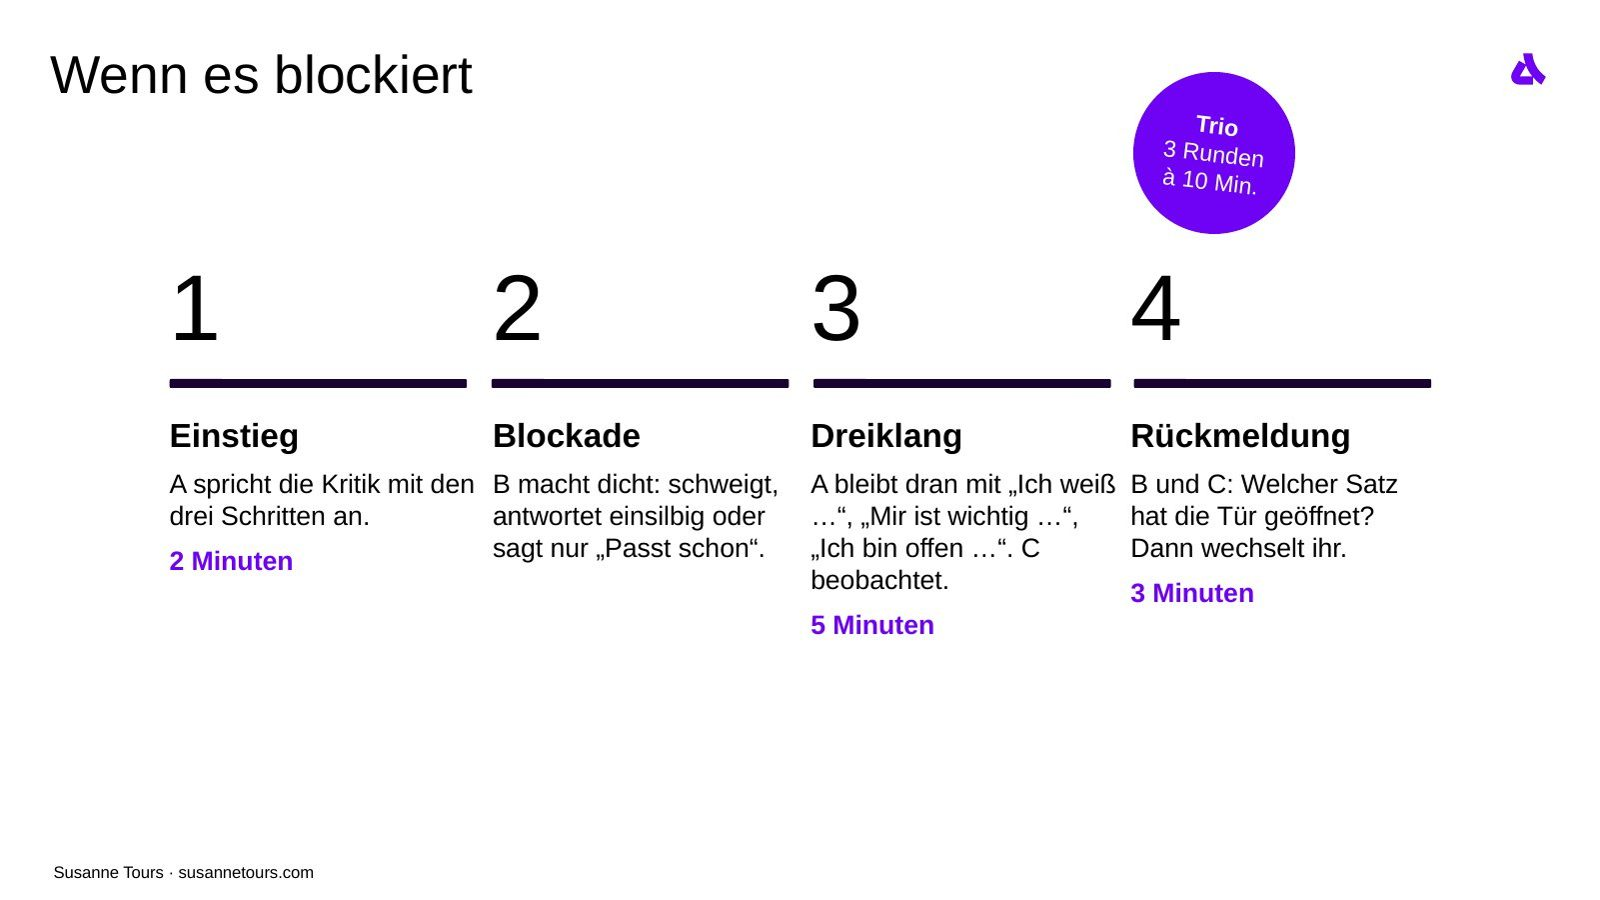
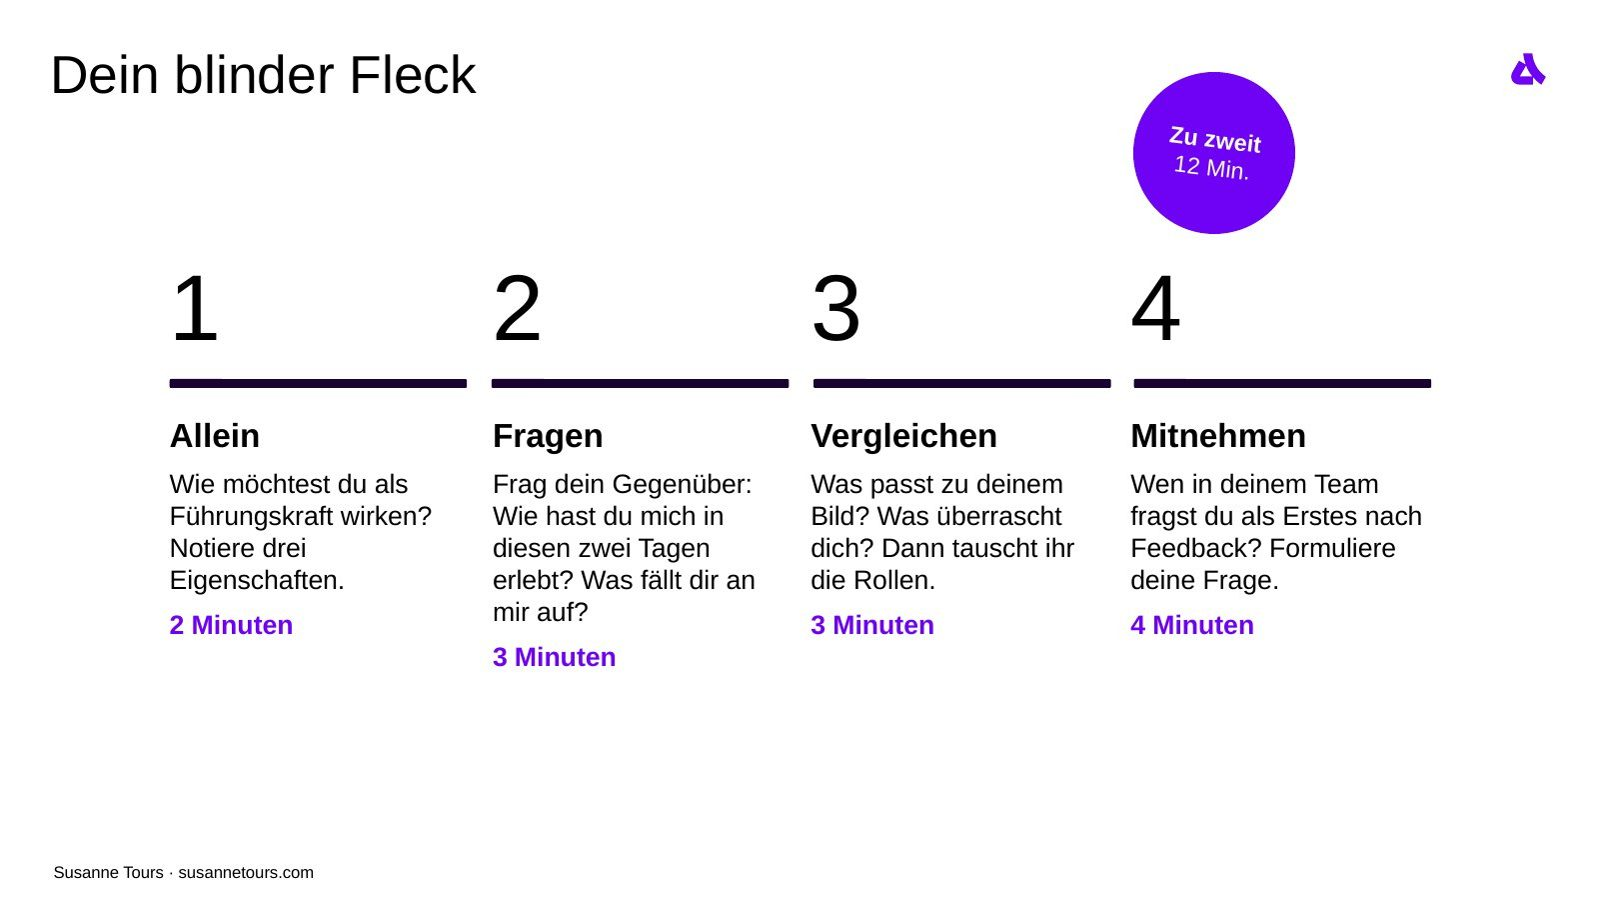
Johari-Fenster: neue Themenseite und Folien
Claude-Session: https://claude.ai/code/session_01KBCioMVuyp2k3b26XD1BtE

diff --git a/index.html b/index.html
@@ -385,7 +385,7 @@ details.more .b{padding:0 20px 16px}
     <tr class="pause"><td>12:30</td><td>Mittagspause bis 13:30 Uhr</td></tr>
     <tr><td>13:30</td><td><b>Gespräche führen</b><small>Dein Gesprächsplan und ein geprobtes Gespräch im Trio</small></td></tr>
     <tr class="pause"><td>15:15</td><td>Kaffeepause bis 15:30 Uhr</td></tr>
-    <tr><td>15:30</td><td><b>Schwierige Gespräche</b><small>Kritik ansprechen und wenn jemand nicht mit dir redet</small></td></tr>
+    <tr><td>15:30</td><td><b>Schwierige Gespräche</b><small>Dein blinder Fleck, Kritik ansprechen und wenn jemand nicht mit dir redet</small></td></tr>
     <tr><td>16:30</td><td><b>Dein Startplan</b><small>Deine ersten Schritte in den nächsten 30 Tagen</small></td></tr>
     <tr><td>17:00</td><td><b>Ende</b></td></tr>
   </table>
@@ -617,11 +617,30 @@ details.more .b{padding:0 20px 16px}
 <!-- 10 SCHWIERIG -->
 <section class="page" id="p-schwierig">
   <div class="hero" style="background-image:url('bilder/schwierig.jpg');--img:url('bilder/schwierig.jpg')"><div class="in"><span class="eyebrow">Tag 2 · Modul 10</span><h2>Schwierige Gespräche</h2><p>Kritik ansprechen, ohne dass die Beziehung leidet. Und dranbleiben, wenn dein Gegenüber dicht macht.</p></div></div>
-  <div class="subnav" id="scnav"><button data-sub="aufschieben" class="on">Nicht aufschieben</button><button data-sub="kritik">Kritik ansprechen</button><button data-sub="blockade">Wenn es blockiert</button><button data-sub="gefuehl">Wenn es emotional wird</button></div>
+  <div class="subnav" id="scnav"><button data-sub="aufschieben" class="on">Nicht aufschieben</button><button data-sub="johari">Blinder Fleck</button><button data-sub="kritik">Kritik ansprechen</button><button data-sub="blockade">Wenn es blockiert</button><button data-sub="gefuehl">Wenn es emotional wird</button></div>
   <div class="sub show" id="sub-aufschieben">
     <div class="card"><h3>Aufgeschobene Gespräche kosten Zinsen</h3><p>Jede Woche, in der du ein schwieriges Gespräch vor dir herschiebst, wird es teurer. Die Sorge wächst, die Fakten verblassen, und das Team merkt, dass etwas nicht stimmt.</p><p>Stell dir vor, jemand hat Spinat zwischen den Zähnen und niemand sagt es. Schweigen ist in diesem Moment nicht freundlich. Es lässt die Person allein.</p></div>
     <div class="card lav"><h3>Wann Warten richtig ist</h3><p>Wenn die Gefühle gerade hochkochen, darf das Gespräch einen Tag warten. Dann sag aber, wann ihr sprecht: „Ich möchte mit dir darüber reden. Lass uns morgen um zehn zusammensetzen.“</p></div>
     <div class="task"><span class="eyebrow">Aus dem Training</span><b>Dein aufgeschobenes Gespräch</b><p style="margin:4px 0 0">Welches Gespräch schiebst du gerade vor dir her? Seit wann? Was kostet es dich jede Woche? Und wann führst du es?</p></div>
+  </div>
+  <div class="sub" id="sub-johari">
+    <div class="card"><h3>Das Johari-Fenster</h3><p>Wir alle haben einen blinden Fleck. Andere sehen an uns Dinge, die wir selbst nicht bemerken: wie wir in Meetings wirken, wenn wir unter Druck sind, oder was ein bestimmter Tonfall auslöst. Genau deshalb brauchen wir Feedback. Ohne den Blick von außen wissen wir nicht, wie wir bei anderen ankommen.</p></div>
+    <div class="card">
+      <div class="sw"><div class="ax-y">Anderen bekannt ↑</div><div class="q">
+        <div class="qd"><b>Öffentlich</b>Was ich und andere von mir wissen.</div>
+        <div style="background:var(--violet);color:#fff"><b style="color:#fff">Blinder Fleck</b>Was andere an mir sehen, ich selbst aber nicht.</div>
+        <div style="background:#F4F1F8"><b style="color:var(--dark)">Privat</b>Was ich weiß, anderen aber nicht zeige.</div>
+        <div style="background:#F4F1F8"><b style="color:var(--dark)">Unbekannt</b>Was weder ich noch andere wissen.</div>
+      </div><div></div><div class="ax-x">Mir selbst bekannt → unbekannt</div></div>
+    </div>
+    <div class="grid2">
+      <div class="card lav"><span class="eyebrow">Feedback holen</span><h3>Der blinde Fleck wird kleiner</h3><p>Frag gezielt nach, wie du wirkst. Und hör zu, ohne dich zu rechtfertigen.</p></div>
+      <div class="card lav"><span class="eyebrow">Offenheit zeigen</span><h3>Das Private wird kleiner</h3><p>Sag, was dir wichtig ist und wie du arbeitest. Dann muss dein Team weniger raten.</p></div>
+    </div>
+    <div class="card dk"><span class="eyebrow">Gerade als neue Führungskraft</span><p style="margin-top:6px">Je höher die Rolle, desto weniger ehrliche Rückmeldung bekommst du von allein. Wer Feedback will, muss danach fragen. Und zeigen, dass es sicher ist, ehrlich zu sein.</p></div>
+    <h3 class="sec">Fragen, die Feedback öffnen</h3>
+    <div class="card"><ul class="clean"><li>Was sollte ich an meiner Art zu führen beibehalten?</li><li>Was sollte ich weniger tun?</li><li>Wie komme ich rüber, wenn es stressig wird?</li><li>Was würdest du dir von mir wünschen?</li></ul></div>
+    <div class="task"><span class="eyebrow">Aus dem Training</span><b>Dein blinder Fleck</b><p style="margin:4px 0 0">Du hast notiert, wie du als Führungskraft wirken möchtest, und dein Gegenüber gefragt, wie es dich in den zwei Tagen erlebt hat. Was hat dich überrascht? Und wen in deinem Team fragst du als Erstes?</p></div>
   </div>
   <div class="sub" id="sub-kritik">
     <div class="card"><h3>Fakten statt Wertung</h3><p>„Du bist unzuverlässig“ ist ein Urteil. Dein Gegenüber wird sich verteidigen. „Der Bericht ist in diesem Monat zweimal nach der Frist gekommen“ ist eine Beobachtung. Darüber kann man sprechen.</p></div>
@@ -713,6 +732,7 @@ details.more .b{padding:0 20px 16px}
     <li>Können und Wollen: vereinfacht nach der Skill-Will-Matrix von Max Landsberg, The Tao of Coaching.</li>
     <li>Transaktionsanalyse: Eric Berne, Spiele der Erwachsenen. Thomas A. Harris, Ich bin o.k., du bist o.k.</li>
     <li>GROW: John Whitmore, Coaching für die Praxis.</li>
+    <li>Johari-Fenster: Joseph Luft und Harrington Ingham (1955).</li>
     <li>Schwierige Gespräche: Harvard Business Review, Having Difficult Conversations (2025). Amy Gallo, Getting Along (2022).</li>
   </ul></div>
   <p class="foot">Erstellt von Susanne Tours, selbstständige Trainerin · <a href="https://susannetours.com" target="_blank" rel="noopener">susannetours.com</a></p>
@@ -796,7 +816,7 @@ details.more .b{padding:0 20px 16px}
 const ERGEBNISSE = [
   // { titel: "Unsere Veränderungskurve", bild: "fotos/kurve.jpg", orte: ["kurve"] },
 ];
-const FOLIEN = 52; // Anzahl der Folienbilder in folien/
+const FOLIEN = 54; // Anzahl der Folienbilder in folien/
 
 /* ---------- Speicher (nur auf diesem Gerät) ---------- */
 const KEY = 'erstes-mal-fuehren-begleitraum-v1';

diff --git a/src/body.html b/src/body.html
@@ -110,7 +110,7 @@
     <tr class="pause"><td>12:30</td><td>Mittagspause bis 13:30 Uhr</td></tr>
     <tr><td>13:30</td><td><b>Gespräche führen</b><small>Dein Gesprächsplan und ein geprobtes Gespräch im Trio</small></td></tr>
     <tr class="pause"><td>15:15</td><td>Kaffeepause bis 15:30 Uhr</td></tr>
-    <tr><td>15:30</td><td><b>Schwierige Gespräche</b><small>Kritik ansprechen und wenn jemand nicht mit dir redet</small></td></tr>
+    <tr><td>15:30</td><td><b>Schwierige Gespräche</b><small>Dein blinder Fleck, Kritik ansprechen und wenn jemand nicht mit dir redet</small></td></tr>
     <tr><td>16:30</td><td><b>Dein Startplan</b><small>Deine ersten Schritte in den nächsten 30 Tagen</small></td></tr>
     <tr><td>17:00</td><td><b>Ende</b></td></tr>
   </table>
@@ -342,11 +342,30 @@
 <!-- 10 SCHWIERIG -->
 <section class="page" id="p-schwierig">
   <div class="hero" style="background-image:url('bilder/schwierig.jpg');--img:url('bilder/schwierig.jpg')"><div class="in"><span class="eyebrow">Tag 2 · Modul 10</span><h2>Schwierige Gespräche</h2><p>Kritik ansprechen, ohne dass die Beziehung leidet. Und dranbleiben, wenn dein Gegenüber dicht macht.</p></div></div>
-  <div class="subnav" id="scnav"><button data-sub="aufschieben" class="on">Nicht aufschieben</button><button data-sub="kritik">Kritik ansprechen</button><button data-sub="blockade">Wenn es blockiert</button><button data-sub="gefuehl">Wenn es emotional wird</button></div>
+  <div class="subnav" id="scnav"><button data-sub="aufschieben" class="on">Nicht aufschieben</button><button data-sub="johari">Blinder Fleck</button><button data-sub="kritik">Kritik ansprechen</button><button data-sub="blockade">Wenn es blockiert</button><button data-sub="gefuehl">Wenn es emotional wird</button></div>
   <div class="sub show" id="sub-aufschieben">
     <div class="card"><h3>Aufgeschobene Gespräche kosten Zinsen</h3><p>Jede Woche, in der du ein schwieriges Gespräch vor dir herschiebst, wird es teurer. Die Sorge wächst, die Fakten verblassen, und das Team merkt, dass etwas nicht stimmt.</p><p>Stell dir vor, jemand hat Spinat zwischen den Zähnen und niemand sagt es. Schweigen ist in diesem Moment nicht freundlich. Es lässt die Person allein.</p></div>
     <div class="card lav"><h3>Wann Warten richtig ist</h3><p>Wenn die Gefühle gerade hochkochen, darf das Gespräch einen Tag warten. Dann sag aber, wann ihr sprecht: „Ich möchte mit dir darüber reden. Lass uns morgen um zehn zusammensetzen.“</p></div>
     <div class="task"><span class="eyebrow">Aus dem Training</span><b>Dein aufgeschobenes Gespräch</b><p style="margin:4px 0 0">Welches Gespräch schiebst du gerade vor dir her? Seit wann? Was kostet es dich jede Woche? Und wann führst du es?</p></div>
+  </div>
+  <div class="sub" id="sub-johari">
+    <div class="card"><h3>Das Johari-Fenster</h3><p>Wir alle haben einen blinden Fleck. Andere sehen an uns Dinge, die wir selbst nicht bemerken: wie wir in Meetings wirken, wenn wir unter Druck sind, oder was ein bestimmter Tonfall auslöst. Genau deshalb brauchen wir Feedback. Ohne den Blick von außen wissen wir nicht, wie wir bei anderen ankommen.</p></div>
+    <div class="card">
+      <div class="sw"><div class="ax-y">Anderen bekannt ↑</div><div class="q">
+        <div class="qd"><b>Öffentlich</b>Was ich und andere von mir wissen.</div>
+        <div style="background:var(--violet);color:#fff"><b style="color:#fff">Blinder Fleck</b>Was andere an mir sehen, ich selbst aber nicht.</div>
+        <div style="background:#F4F1F8"><b style="color:var(--dark)">Privat</b>Was ich weiß, anderen aber nicht zeige.</div>
+        <div style="background:#F4F1F8"><b style="color:var(--dark)">Unbekannt</b>Was weder ich noch andere wissen.</div>
+      </div><div></div><div class="ax-x">Mir selbst bekannt → unbekannt</div></div>
+    </div>
+    <div class="grid2">
+      <div class="card lav"><span class="eyebrow">Feedback holen</span><h3>Der blinde Fleck wird kleiner</h3><p>Frag gezielt nach, wie du wirkst. Und hör zu, ohne dich zu rechtfertigen.</p></div>
+      <div class="card lav"><span class="eyebrow">Offenheit zeigen</span><h3>Das Private wird kleiner</h3><p>Sag, was dir wichtig ist und wie du arbeitest. Dann muss dein Team weniger raten.</p></div>
+    </div>
+    <div class="card dk"><span class="eyebrow">Gerade als neue Führungskraft</span><p style="margin-top:6px">Je höher die Rolle, desto weniger ehrliche Rückmeldung bekommst du von allein. Wer Feedback will, muss danach fragen. Und zeigen, dass es sicher ist, ehrlich zu sein.</p></div>
+    <h3 class="sec">Fragen, die Feedback öffnen</h3>
+    <div class="card"><ul class="clean"><li>Was sollte ich an meiner Art zu führen beibehalten?</li><li>Was sollte ich weniger tun?</li><li>Wie komme ich rüber, wenn es stressig wird?</li><li>Was würdest du dir von mir wünschen?</li></ul></div>
+    <div class="task"><span class="eyebrow">Aus dem Training</span><b>Dein blinder Fleck</b><p style="margin:4px 0 0">Du hast notiert, wie du als Führungskraft wirken möchtest, und dein Gegenüber gefragt, wie es dich in den zwei Tagen erlebt hat. Was hat dich überrascht? Und wen in deinem Team fragst du als Erstes?</p></div>
   </div>
   <div class="sub" id="sub-kritik">
     <div class="card"><h3>Fakten statt Wertung</h3><p>„Du bist unzuverlässig“ ist ein Urteil. Dein Gegenüber wird sich verteidigen. „Der Bericht ist in diesem Monat zweimal nach der Frist gekommen“ ist eine Beobachtung. Darüber kann man sprechen.</p></div>
@@ -438,6 +457,7 @@
     <li>Können und Wollen: vereinfacht nach der Skill-Will-Matrix von Max Landsberg, The Tao of Coaching.</li>
     <li>Transaktionsanalyse: Eric Berne, Spiele der Erwachsenen. Thomas A. Harris, Ich bin o.k., du bist o.k.</li>
     <li>GROW: John Whitmore, Coaching für die Praxis.</li>
+    <li>Johari-Fenster: Joseph Luft und Harrington Ingham (1955).</li>
     <li>Schwierige Gespräche: Harvard Business Review, Having Difficult Conversations (2025). Amy Gallo, Getting Along (2022).</li>
   </ul></div>
   <p class="foot">Erstellt von Susanne Tours, selbstständige Trainerin · <a href="https://susannetours.com" target="_blank" rel="noopener">susannetours.com</a></p>

diff --git a/src/flipcharts.html b/src/flipcharts.html
@@ -174,4 +174,17 @@ h1{font-size:60px;margin:10px 0 12px;line-height:1.08}
 <div class="box">Schweigen ist nicht freundlich. <b>Es lässt den anderen allein.</b></div>
 <div class="foot"><span>Das erste Mal führen 1</span><span>Susanne Tours</span></div></div>
 
+<!-- 14 Johari -->
+<div class="fc" id="fc14"><div class="eb">Tag 2 · Modul 10</div><h1>Das Johari-Fenster</h1><p class="sub">Wir alle haben einen blinden Fleck.</p>
+<div style="display:grid;grid-template-columns:1fr 1fr;gap:6px;font-size:22px;font-weight:700;color:#5B4F72;text-align:center;margin-left:150px"><div>mir bekannt</div><div>mir unbekannt</div></div>
+<div style="display:grid;grid-template-columns:140px 1fr 1fr;grid-template-rows:330px 330px;gap:14px;margin-top:8px">
+<div style="display:flex;align-items:center;font-size:22px;font-weight:700;color:#5B4F72">anderen bekannt</div>
+<div style="background:#F3E7FF;border-radius:18px;padding:24px"><b style="font-size:34px">Öffentlich</b></div>
+<div style="background:#6F01F5;color:#fff;border-radius:18px;padding:24px"><b style="font-size:34px">Blinder Fleck</b><div style="font-size:22px;margin-top:10px">← Feedback</div></div>
+<div style="display:flex;align-items:center;font-size:22px;font-weight:700;color:#5B4F72">anderen unbekannt</div>
+<div style="background:#F4F1F8;border-radius:18px;padding:24px"><b style="font-size:34px">Privat</b><div style="font-size:22px;margin-top:10px">↑ Offenheit</div></div>
+<div style="background:#F4F1F8;border-radius:18px;padding:24px"><b style="font-size:34px">Unbekannt</b></div></div>
+<div class="box">Wer Feedback will, <b>muss danach fragen.</b></div>
+<div class="foot"><span>Das erste Mal führen 1</span><span>Susanne Tours</span></div></div>
+
 </body></html>

diff --git a/src/app.js b/src/app.js
@@ -3,7 +3,7 @@
 const ERGEBNISSE = [
   // { titel: "Unsere Veränderungskurve", bild: "fotos/kurve.jpg", orte: ["kurve"] },
 ];
-const FOLIEN = 52; // Anzahl der Folienbilder in folien/
+const FOLIEN = 54; // Anzahl der Folienbilder in folien/
 
 /* ---------- Speicher (nur auf diesem Gerät) ---------- */
 const KEY = 'erstes-mal-fuehren-begleitraum-v1';

diff --git a/src/deck.py b/src/deck.py
@@ -265,6 +265,31 @@ def need_detail(i, img):
     tbox(s, 6.2, 4.65, 2.75, 1.9, [('Im Team erfüllt, wenn …', 14, PURPLE, True, 0), (ok, 14, DARK, False, 6)])
     tbox(s, 9.53, 4.65, 2.75, 1.9, [('Woran man merkt, dass es fehlt', 14, RGBColor(0xCB, 0x01, 0x01), True, 0), (fehlt, 14, DARK, False, 6)])
 
+
+def johari():
+    s = dup('steps')
+    set_text(shape(s, 'Title 1'), 'Das Johari-Fenster: dein blinder Fleck')
+    keep = {'Title 1', 'Footer Placeholder 3', 'Slide Number Placeholder 4'}
+    for sh in list(s.shapes):
+        if sh.name not in keep:
+            sh._element.getparent().remove(sh._element)
+    tbox(s, 2.2, 1.2, 3.4, 0.4, [('Mir selbst bekannt', 15, SOFT, True, 0)]).text_frame.paragraphs[0].alignment = PP_ALIGN.CENTER
+    tbox(s, 5.75, 1.2, 3.4, 0.4, [('Mir selbst unbekannt', 15, SOFT, True, 0)]).text_frame.paragraphs[0].alignment = PP_ALIGN.CENTER
+    tbox(s, 0.45, 2.3, 1.8, 1.0, [('Anderen bekannt', 15, SOFT, True, 0)])
+    tbox(s, 0.45, 4.75, 1.8, 1.0, [('Anderen unbekannt', 15, SOFT, True, 0)])
+    Q = [(2.2, 1.65, LAV, 'Öffentlich', 'Was ich und andere von mir wissen.', DARK),
+         (5.75, 1.65, PURPLE, 'Blinder Fleck', 'Was andere an mir sehen, ich selbst aber nicht.', WHITE),
+         (2.2, 4.1, RGBColor(0xF4, 0xF1, 0xF8), 'Privat', 'Was ich weiß, anderen aber nicht zeige.', DARK),
+         (5.75, 4.1, RGBColor(0xF4, 0xF1, 0xF8), 'Unbekannt', 'Was weder ich noch andere wissen.', DARK)]
+    for x, y, col, head, txt, tc in Q:
+        card(s, x, y, 3.4, 2.3, col)
+        tbox(s, x + 0.25, y + 0.25, 2.9, 1.9, [(head, 24, tc, True, 0), (txt, 16, tc, False, 8)])
+    im = Image.open(MEDIA + 'image9.jpg').convert('RGB').resize((1600, 900))
+    cw = int(900 * 3.45 / 5.25); cx = int(1600 * 0.62)
+    pf = SHIFT + 'johari_portrait.jpg'; im.crop((cx - cw // 2, 0, cx + cw // 2, 900)).save(pf, quality=88)
+    s.shapes.add_picture(pf, Inches(9.45), Inches(1.65), Inches(3.45), Inches(5.25))
+    tbox(s, 2.2, 6.5, 6.95, 0.6, [('Feedback verkleinert den blinden Fleck. Offenheit verkleinert das Private. So wächst das Öffentliche, und damit das Vertrauen.', 13, PURPLE, True, 0)])
+
 # ---------- Inhalt ----------
 haufe_title('Das erste Mal führen 1', 'Vom Rollenwechsel bis zu ersten Führungsgesprächen: dein Fundament für einen erfolgreichen Start in die Führung', 'image10.jpg')
 trainer()
@@ -402,6 +427,12 @@ task('solo', 'Dein offenes Gespräch', shifted('image4.jpg', 0.4),
       ('b', 'Seit wann schiebst du es auf?'), ('b', 'Was kostet es dich jede Woche, dass du es nicht führst?'),
       ('b', 'Wann führst du es?')],
      '3 Minuten, Einzelarbeit')
+johari()
+steps('Dein blinder Fleck', 'Zu zweit', '12 Min.', [
+    ('Allein', 'Wie möchtest du als Führungskraft wirken? Notiere drei Eigenschaften.', '2 Minuten'),
+    ('Fragen', 'Frag dein Gegenüber: Wie hast du mich in diesen zwei Tagen erlebt? Was fällt dir an mir auf?', '3 Minuten'),
+    ('Vergleichen', 'Was passt zu deinem Bild? Was überrascht dich? Dann tauscht ihr die Rollen.', '3 Minuten'),
+    ('Mitnehmen', 'Wen in deinem Team fragst du als Erstes nach Feedback? Formuliere deine Frage.', '4 Minuten')])
 task('solo', 'Kritik in drei Schritten', shifted('image16.jpg', 0.27),
      [('p', 'Formuliere für dein Gespräch die ersten Sätze:'),
       ('b', 'Wahrnehmung: Was habe ich beobachtet, ohne Wertung?'), ('b', 'Wirkung: Was löst das aus, bei mir, im Team, beim Kunden?'),
